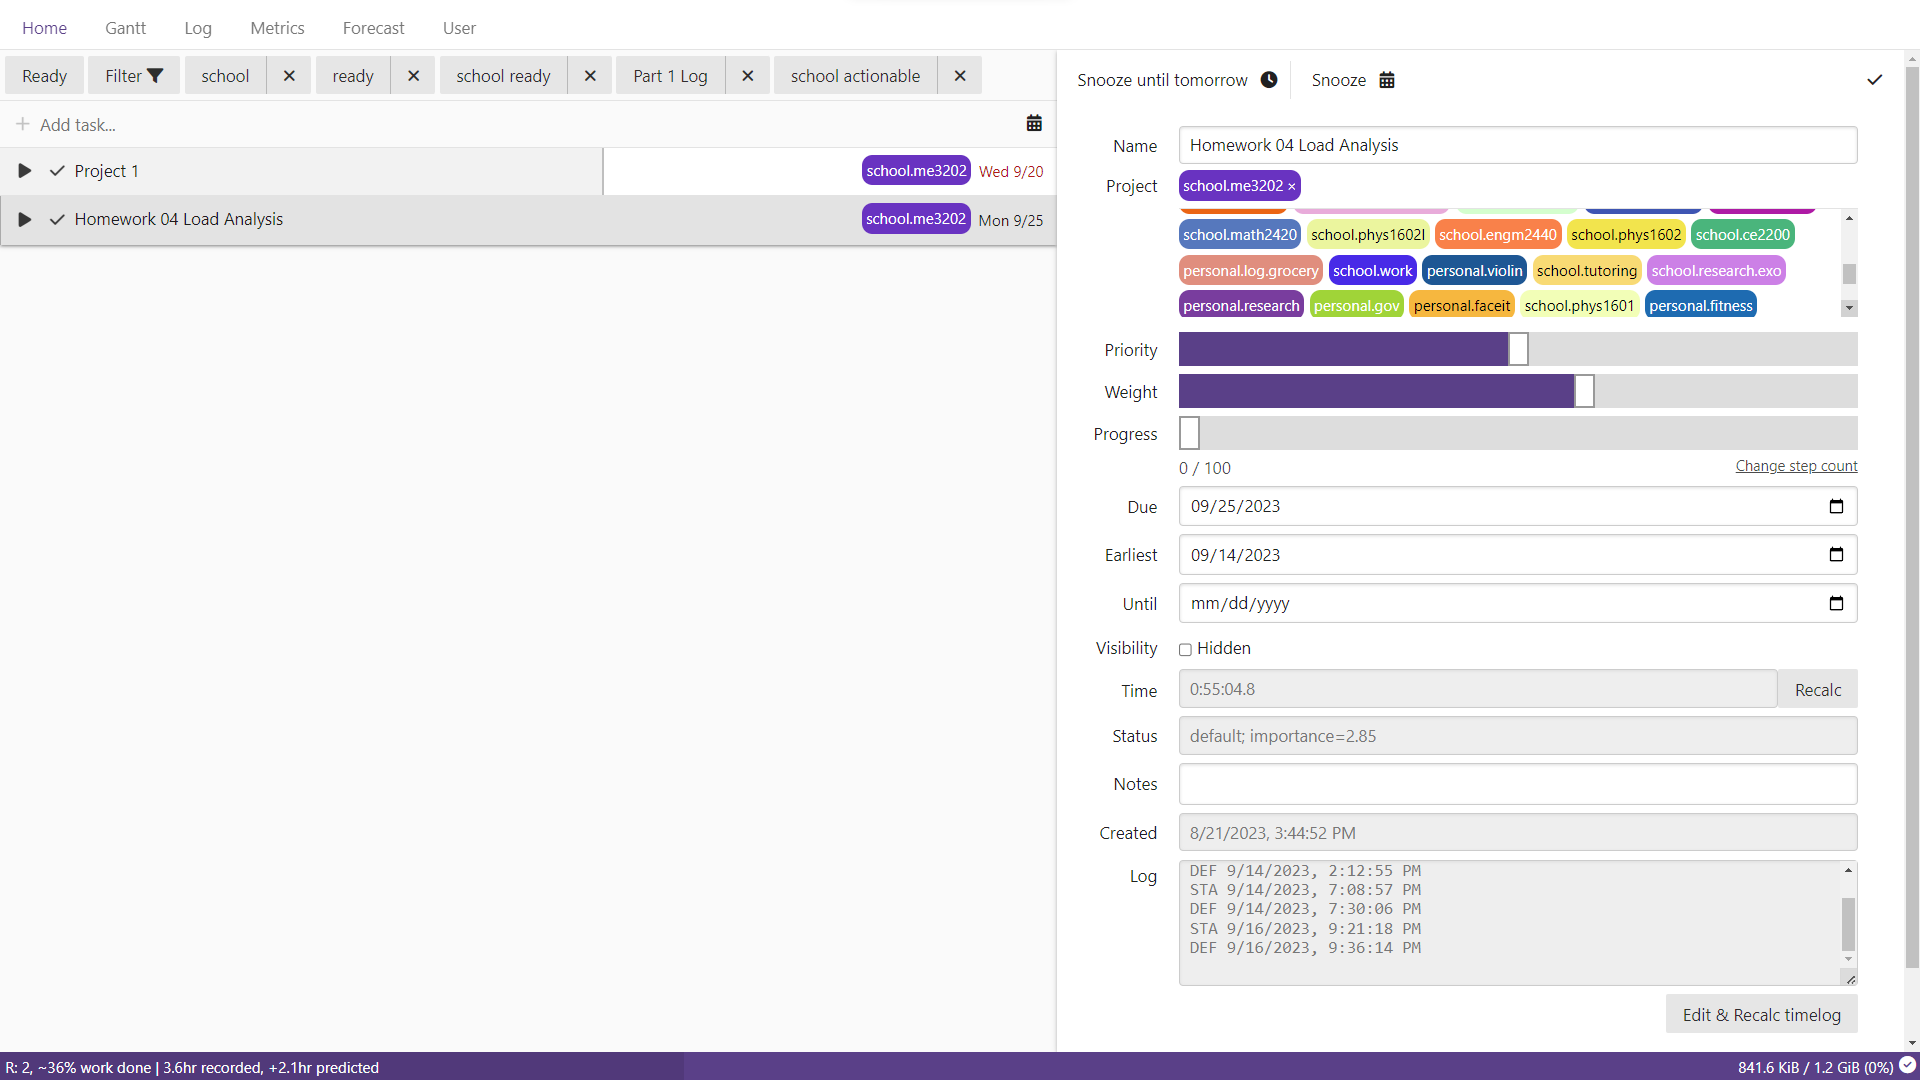
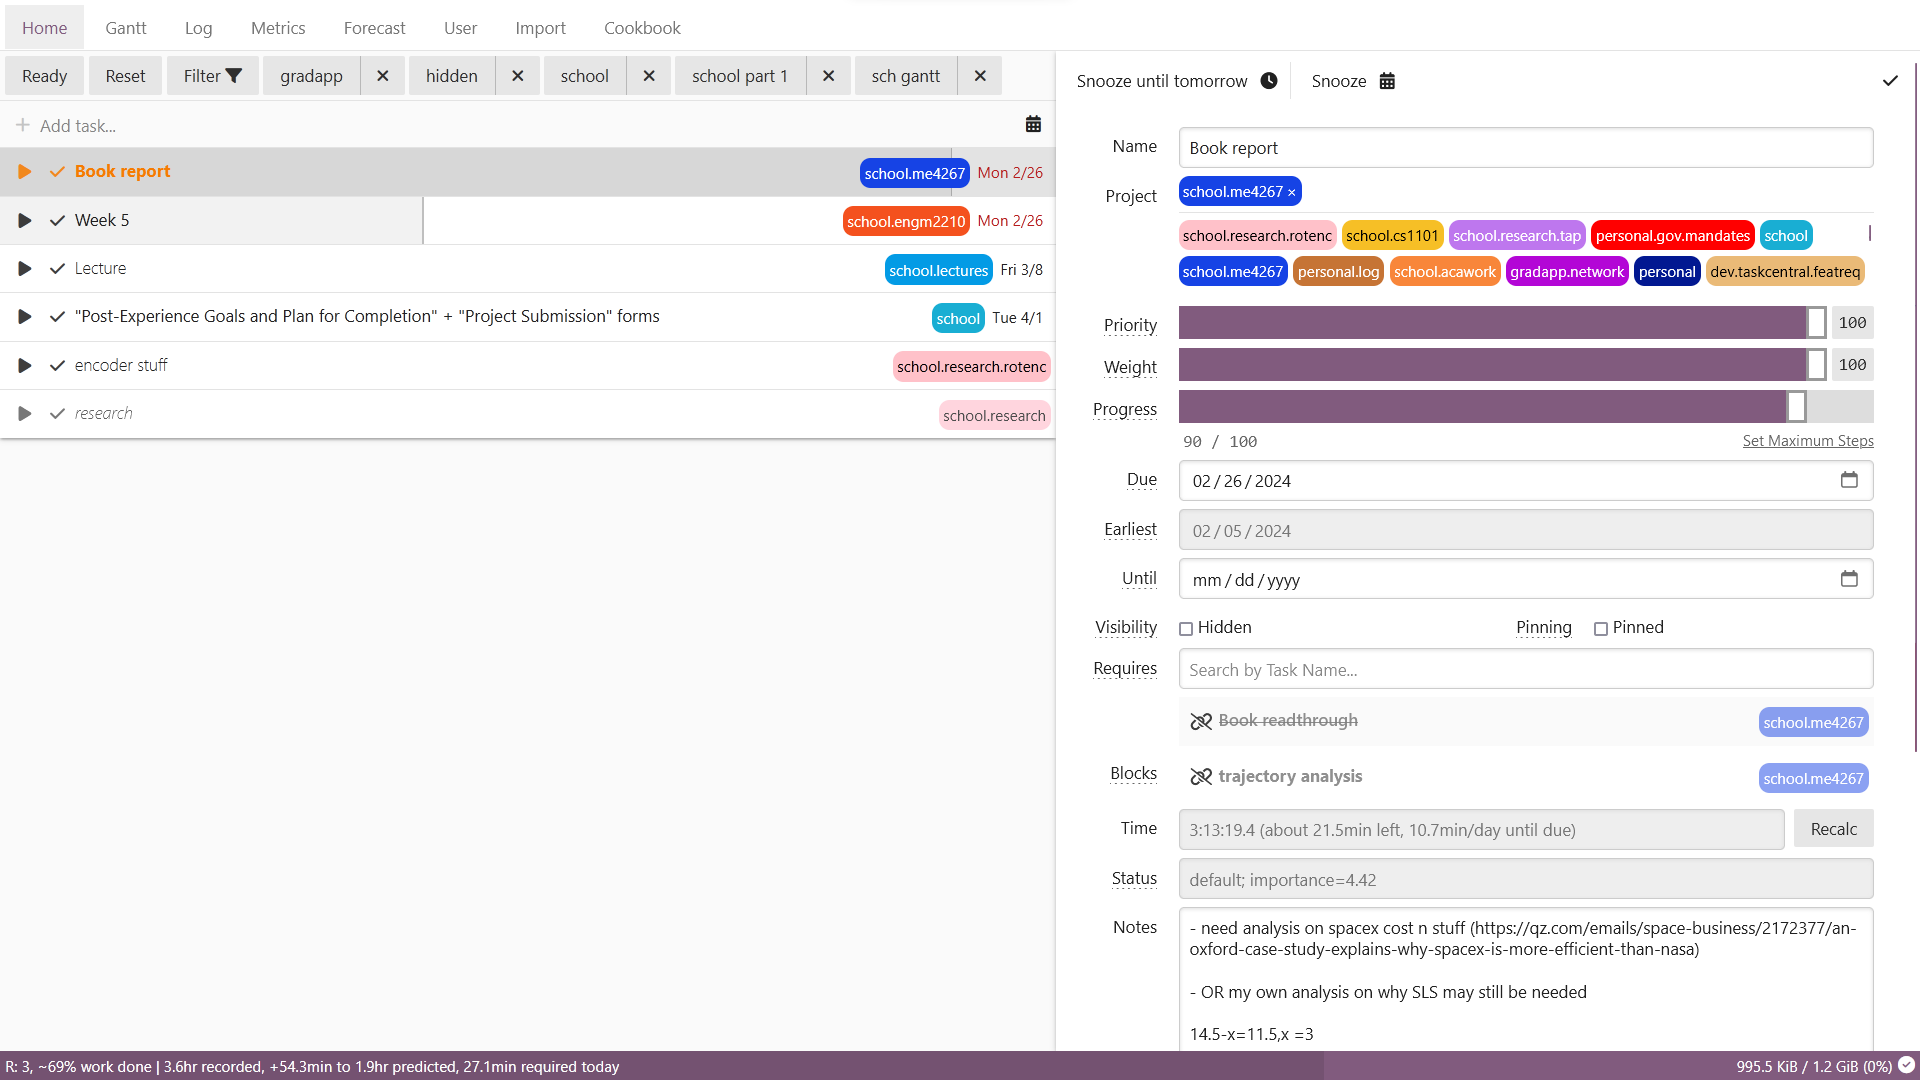
misc: update readme screenshots

diff --git a/README.md b/README.md
@@ -8,7 +8,7 @@ TaskCentral is an opinionated TODO-style platform aiming to **reduce cognitive l
 
 Users input **priority** (task importance), **weight** (work volume), and an earliest possible start date. Instead of an overwhelming list, you receive a concise daily task selection.
 
-You can use it as a simple list if you'd like. But it can scale to your workflow: **stress forecast, Pomodoro timers, time tracking, productivity graphs**, etc.
+You can use it as a simple list if you'd like. But it can scale to your workflow: **dependency trees, stress forecast, Pomodoro timers, time tracking, productivity graphs**, etc.
 
 Read more here: [The Cookbook](docgen/cookbook.md)
 
